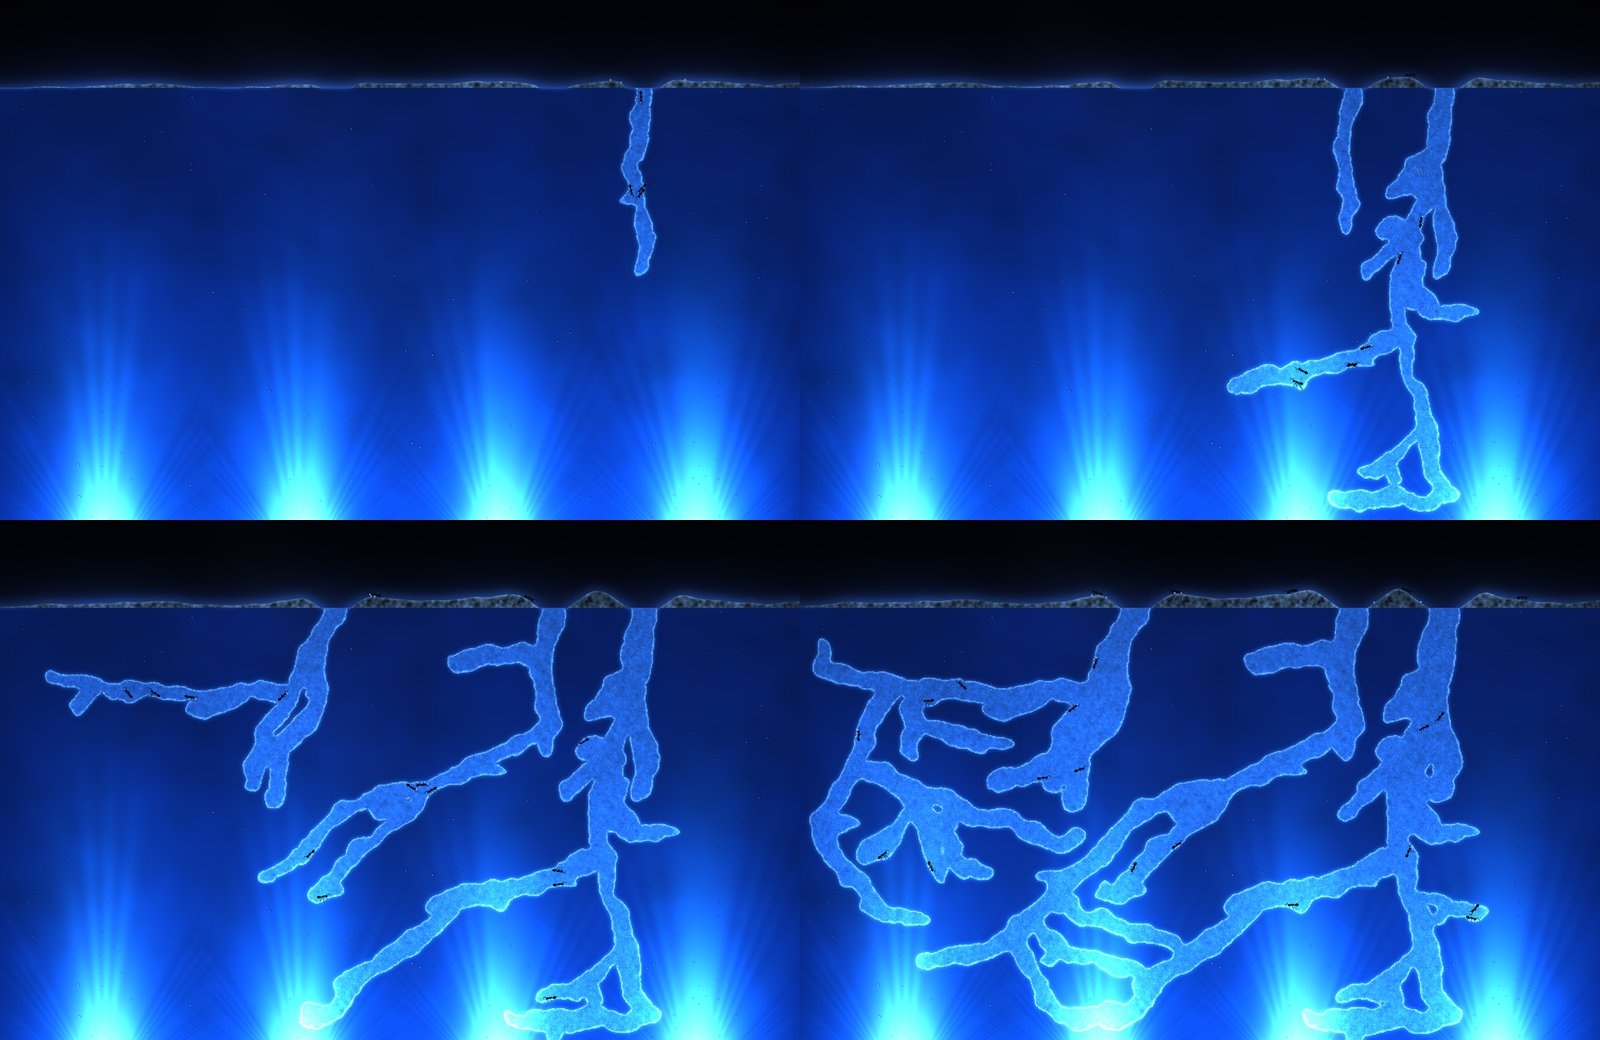
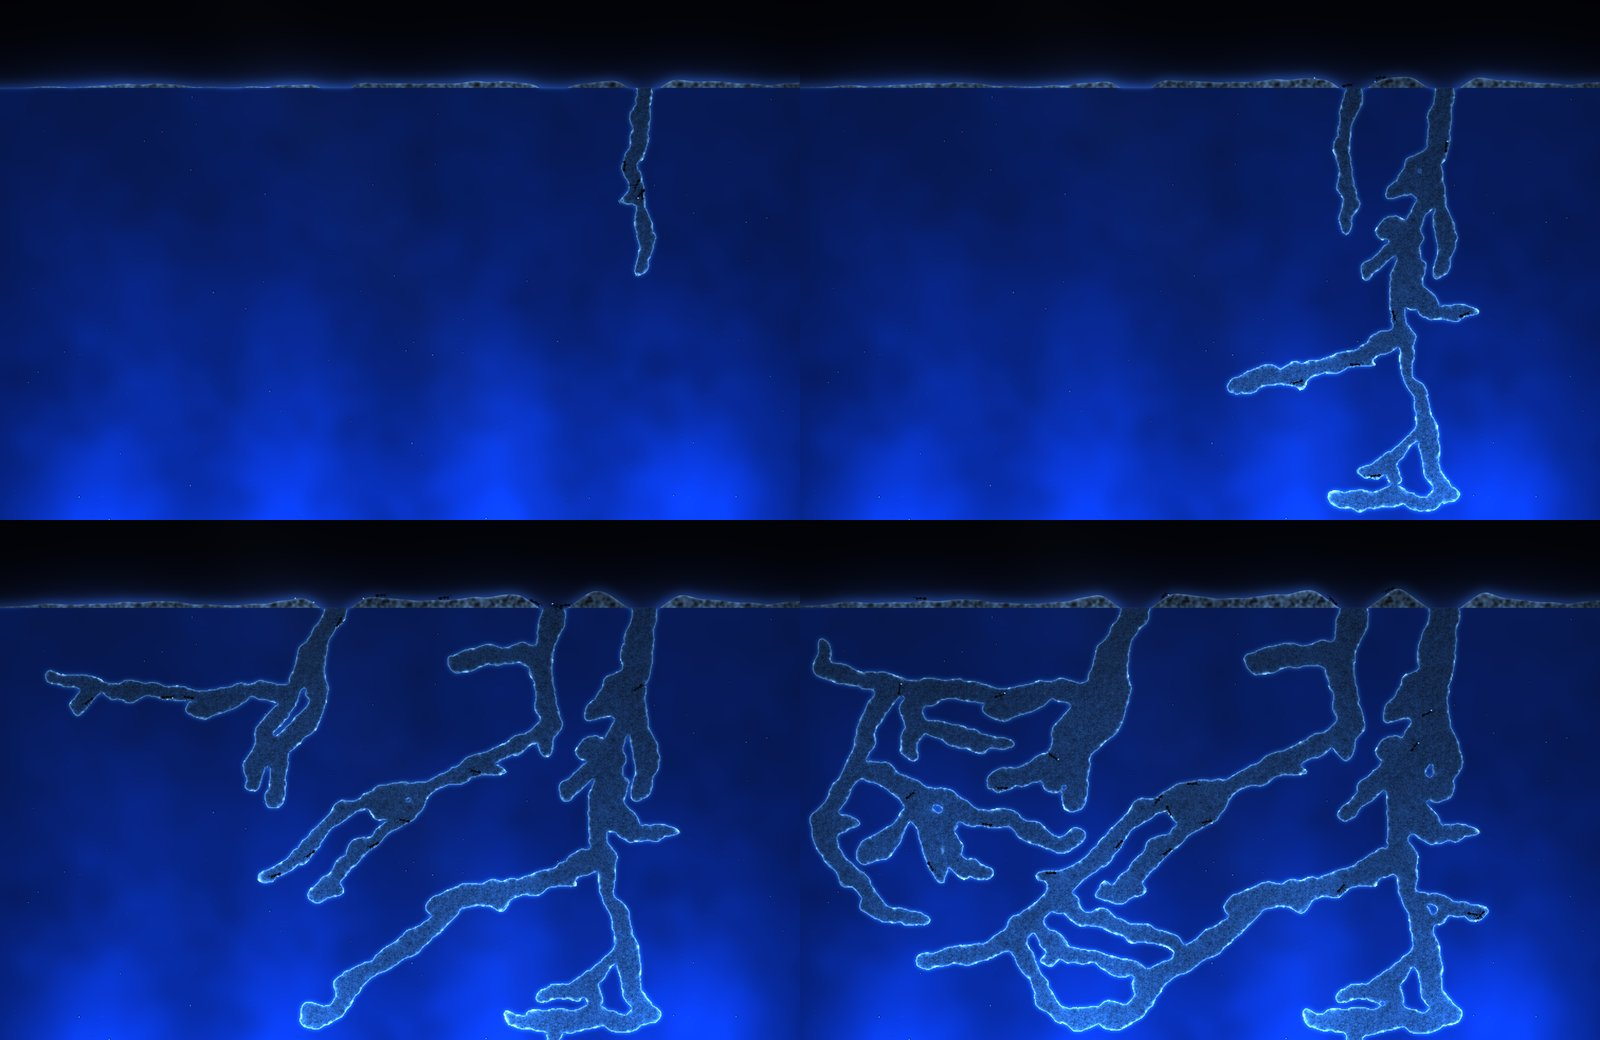
Ant Colony: bring its doc and its pictures up to what was built
The doc still had two shaders, twenty-two sprites an ant, a lattice
in the sand and a face strip from before ants were sent to the faces
about to move. Its sheets of a day and of the sizes were in the gel
that is now Bright Gel. They are drawn again in the standard look, the
strip at Speed 8 shows a digger relieved by the ant waiting behind it,
and the list of what is not checked says so plainly: the Settings
page has not been seen with five looks in its menu.

Dave's second remark on the mock-ups is in his own words but for the
toy's name, which the doc gives once.

diff --git a/docs/ant-colony.md b/docs/ant-colony.md
@@ -4,9 +4,9 @@ A thin tank seen from the side, with the display as its glass: blue gel lit from
 
 It imitates the Ant Farm, the toy sold since 1956, and the blue gel tanks that came after it. That name is a registered mark and is used nowhere in the app: see [Rights](#rights).
 
-Dave asked for it on 2026-10-12, slowly evolving and "based on realistic ant movements", and then: "think that sideways clear view into the ant colony as it slowly forms and gets bigger". It was researched and mocked up that day, he chose from the sheets ([Dave's decisions](#daves-decisions-2026-10-12)), and it was built the same day in three steps. It is flagged `unfinished`: hidden until he has tried it.
+Dave asked for it on 2026-10-12, slowly evolving and "based on realistic ant movements", and then: "think that sideways clear view into the ant colony as it slowly forms and gets bigger". It was researched and mocked up that day, he chose from the sheets ([Dave's decisions](#daves-decisions-2026-10-12)), and it was built the same day in three steps, then gone over again after the lead's review and Dave's second look at the mock-ups. It is flagged `unfinished`: hidden until he has tried it.
 
-- **Source:** `Sources/Atrium/AntColony.swift` (the scene, the two shaders and the ants' sprites), `Sources/AntNest/` (`Nest.swift`, the nest and its bake; `Colony.swift`, the ants; its own module, built with `-O`).
+- **Source:** `Sources/Atrium/AntColony.swift` (the scene, its clock, the five looks' shaders and the ants' sprites), `Sources/AntNest/` (`Nest.swift`, the nest and its bake; `Colony.swift`, the ants; its own module, built with `-O`).
 - **Data:** none. Everything is made from the date.
 - **Scripts:** `docs/ant-colony/probe.swift` measures what the ants do with nothing drawn, and `wide.swift` runs a thousand nests looking for a crash ([Checking it](#checking-it)); `avinery_curve.py` and `measure_photos.py` are the two measurements taken off other people's films and photographs.
 - **Pictures of it:** `docs/images/ant-colony.jpg` and one for each other look (`ant-colony-bright-gel.jpg`, `ant-colony-sand.jpg`, `ant-colony-white-sand.jpg`, `ant-colony-earth.jpg`); and in `docs/ant-colony/`, one farm at four moments of its day (`day.jpg`), the smallest ants beside the largest (`sizes.jpg`), one ant followed for five seconds (`one-ant.jpg`) and a face at the top of Speed (`face-at-speed-8.jpg`).
@@ -17,7 +17,7 @@ Dave asked for it on 2026-10-12, slowly evolving and "based on realistic ant mov
 |---|---|
 | Name | Ant Colony |
 | What it shows | "that sideways clear view into the ant colony as it slowly forms and gets bigger" |
-| Look | "Gel and sand both", as a setting. Then, having seen both rounds of mock-ups: "i love all of the ant farm mockups, all of what has been shown should be an option to select somehow". So every medium he was shown is a pick: the gel, sand dim and white, and earth |
+| Look | "Gel and sand both", as a setting. Then, having seen both rounds of mock-ups: "i love all of the ... mockups, all of what has been shown should be an option to select somehow". So every medium he was shown is a pick: the gel, sand dim and white, and earth |
 | Size of ant | "Middle, with a Size setting" |
 | Time | "A farm a day", by the wall's clock, with a Speed slider |
 | The toy on screen | no frame and no skyline: the display is the glass, edge to edge |
@@ -76,7 +76,7 @@ Looked at, measured for colour (`docs/ant-colony/measure_photos.py`) and compare
 
 ### The nest is baked, not dug
 
-`Nest` grows a whole nest from a seed before anything is shown (70 ms for a 14-inch display at the middle size, off the main thread). Faces go on in wandering lines pulled toward their own pitch, branch off sideways and stop; three times in four a face that meets another tunnel runs on into it, so galleries join and the medium is left in blocks; new faces open toward the largest undug stretch; rooms two to four ant lengths across swell from a niche in a tunnel's side or end. A tunnel's width wanders and its walls widen slowly behind the face. The finished map is read through a smooth push about a quarter of an ant's length deep, so no wall is a brush stroke, and anything left thinner than 0.4 of a length between two tunnels is taken away with the later one.
+`Nest` grows a whole nest from a seed before anything is shown (60 ms for a 14-inch display at the middle size, off the main thread). Faces go on in wandering lines pulled toward their own pitch, branch off sideways and stop; three times in four a face that meets another tunnel runs on into it, so galleries join and the medium is left in blocks; new faces open toward the largest undug stretch; rooms two to four ant lengths across swell from a niche in a tunnel's side or end. A tunnel's width wanders and its walls widen slowly behind the face. The finished map is read through a smooth push about a quarter of an ant's length deep, so no wall is a brush stroke, and anything left thinner than 0.4 of a length between two tunnels is taken away with the later one.
 
 What is kept is **one number for each cell: the share of all the digging done when that cell goes.** The nest at any moment is the cells whose number is at most the share dug, so the dug area grows as that share does, and how the share runs against the clock is decided afterwards. A young colony works one face and a grown one eight (`Nest.faces`), and its mouths open one after another, so the first hours are one shaft.
 
@@ -121,7 +121,7 @@ One full-screen sprite with one of five shaders, a look each, and sprites for th
 - **Bright Gel** is the same tank nearer photograph 6, and far brighter: a bloom of faint rays over each lamp, more bubbles, and tunnels that are the gel's own blue a little paler with bubbles frothing at their walls.
 - **Sand.** Grains a tenth of an ant across, scattered one to a square with no lattice to them (on a square lattice they showed as a weave wherever the picture was drawn at half size: a non-Retina display, Settings' preview, a README picture). The map is read at the middle of the grain a pixel is in, so a grain is there whole or not at all: an edge crumbles by the grain. A grain is as big as its nearest neighbour lets it be. A tunnel is a trough, its wall curving back to the pane behind, dark under its upper lip, with loose grains lying on the pane, most of them along the floors. Ants are red harvesters lit from above, their far legs darker, with a shadow on the pane. **Sand** is the mock-ups' warm sand (211,201,183, warmed) at two thirds of its brightness, with warm dark tunnels; **White Sand** is the toy's, matched to photograph 1, with the grey pane behind.
 - **Earth.** Photograph 8's fine yellow-brown soil, too fine to show a grain, in clumps, lit from the upper left, its edge pushed about half a grain deep; tunnels dark, the soil behind in the shadow of the upper lip, with crumbs left on the pane beside the walls and a little light on the floors; a dark room above. Its ants are the sand's, and are not dimmed with the soil: in the first mock-up they were, and could hardly be seen in the tunnels.
-- **An ant** is a painted body and a sprite for each length of leg and antenna (22, or 16 for the smallest ants, whose feet are too small to show a bend), with soft sides so that a leg thinner than a pixel is a faint line and not a row of dots. An ant standing still has only its antennae placed.
+- **An ant** is a painted body and a sprite for each length of leg and antenna (16, or 22 for the largest ants, the only ones whose feet are big enough to show a bend), with soft sides so that a leg thinner than a pixel is a faint line and not a row of dots. An ant standing still has only its antennae placed.
 
 ## Rights
 
@@ -156,7 +156,7 @@ From the search of 2026-10-12, by a helper who read the USPTO's records; the bui
 | 16× | 48% | 54% | 70% | 77% | 62% |
 | 24× | 43% | 54% | 65% | 77% | 60% |
 
-The worst single nest and hour was 66% at 1× and 53% at 8×. At 8 the day's first shaft goes down an ant's length in thirteen seconds (`face-at-speed-8.jpg`, 0.47 s a tile, made before ants were sent to moving faces first).
+The worst single nest and hour was 66% at 1× and 53% at 8×. At 8 the day's first shaft goes down an ant's length in thirteen seconds. `face-at-speed-8.jpg` is that, in white sand, 0.47 s a tile: one ant digs at the face with another waiting behind it; the digger takes a grain, turns about and leaves, and the other steps up.
 
 Settings' own copy, behind its page, is given three in the afternoon of the day's first farm when the real one is under three tenths dug or over nine (`HeadStart`), so its settings can be judged at any hour.
 
@@ -194,7 +194,7 @@ swiftc -O Sources/AntNest/Nest.swift Sources/AntNest/Colony.swift docs/ant-colon
 - **The other tests:** the same seed bakes the same nest and another seed another; the dug area is the share the clock says; the clock's hours; one shaft only in a farm's first twentieth. Three nests at four ages, watched every sixtieth of a second with the digging forty times too fast: no ant's middle is ever over undug medium (0 of 303,038 ant-moments; its head or gaster 111), no planted foot moves, no body goes further in a sixtieth of a second than a quarter of its length (0.069 at most), and someone is always walking. The picture is the same at 15, 30 and 60 fps, in gel and in white sand with small ants at Speed 8; the five looks differ as they should; there is more tunnel at six in the evening than at nine in the morning; Settings' copy opens on a nest part-dug; and the frame after Speed goes from 1 to 8, or back, shows exactly as much tunnel as the frame before. The cycle on its own: a fresh one at Speed 1 is the day's wall-clock farm; a change of Speed keeps the hours dug; the next farm begins as one ends above 1 and only at six at 1; a relaunch from the saved numbers is where it was; a clock set back leaves the farm whole.
 - **A nest is baked from the date every morning,** so a trap on one date is a crash at every launch that day. The test that stays bakes 36 nests (six dates on six grids: a 14-inch display's at each size of ant, a portrait display's, a 13-inch's, a 5K's), runs each at four ages and once with the clock set back under its ants, and asserts that every ant is somewhere in the tank and none has its middle in the medium (2 s). **`wide.swift`** is the same on twelve grids, up to Small ants on a 6K display (2,545 by 1,432 cells), and as many dates as asked. Its last run of 2026-10-12: 1,080 nests, 91.7 million ant-moments, no trap, 0 middles in the medium, 0 places off the tank or not a number; 966 ants moved to their place at once, 880 of them on the frame the clock went back; fewest mouths 1; every nest had a room. Its first run trapped, on an ant digging in a tunnel the set-back clock had not yet dug; that and two ways of standing in the medium for a moment after a set-back are fixed.
 - **`probe.swift`** runs ten minutes at four ages of a day, at each of four Speeds or those asked for, and prints how often a tunnel face that moved had an ant at it, where the ants' time went, how many planted feet were on the medium (and how many were not though some was in reach), and what a step costs. The figures under [Settings](#settings) and [Still open](#still-open) are its, for the nests of 2026-10-12, 13 and 15.
-- **Judge motion from strips**, not stills: `SNAPSHOT_MOVIE` saves frames at 15 fps. `one-ant.jpg` is an ant at a face, turning about and leaving with its grain.
+- **Judge motion from strips**, not stills: `SNAPSHOT_MOVIE` saves frames at 15 fps. `one-ant.jpg` (in Bright Gel, 0.2 s a tile) is an ant at a face, turning about and leaving with its grain.
 - **The pictures:** `docs/images/ant-colony.jpg` is the second line above, and `ant-colony-bright-gel.jpg` the same with `antcolony.look=1`; `ant-colony-sand.jpg` is `antcolony.day=20261015,antcolony.hour=11,antcolony.look=2`; `ant-colony-white-sand.jpg` is `antcolony.day=20261014,antcolony.hour=9,antcolony.look=3`; `ant-colony-earth.jpg` is `antcolony.day=20261012,antcolony.hour=10,antcolony.look=4`. Each is `sips -s format jpeg -s formatOptions 85 -Z 1600` of the test's PNG, and `Resources/preview-ant-colony.jpg` is the first at 1200 wide. The day was picked from four.
 
 ## Shortcuts
@@ -219,11 +219,11 @@ Worst first, as the builder saw it on stills and strips; Dave has not seen it ru
 5. **It is busier than real ants:** two fifths to three fifths of the colony are walking at once, where real workers are idle 60% of the time. Dave's rule is lively over realistic, but this has not been judged running.
 6. **Crossing to the other wall** happens at many junctions and may read as a twitch.
 7. **Now and then an ant is moved to its place at once** (none or one in ten minutes of 22 ants; 86 times in the wide run's 1,080 nests, besides the frame the clock was set back), where neither the straight way nor the way by the middle of the tunnel was open.
-8. **Tunnel edges are scalloped at the size of a cell** (4 pixels) close up, and large sand grains show their lattice when a picture is reduced.
+8. **Tunnel edges are scalloped at the size of a cell** in the gels and in earth: 4 pixels at Medium, which takes a close look, and 6.5 at Large, where every wall has small regular bumps under its bright rim. In sand the grains hide it.
 9. **Tunnels are 1.3 to 1.5 ant lengths wide** once their walls have widened, against the measured one, so ants look small in them.
 10. **Digging is a nod of the head,** and a grain appears in the jaws.
 11. **The lit ant is drawn, not photographed,** and is lit from its own back, so its highlight turns with it. In earth it is small and bright against a dark tunnel, and has been judged on stills only.
-12. Not checked: the Settings page itself (its test opens a window on the screen), a 5K or 6K display, a 1x display, a second display, a slower Mac, the lock screen's still.
+12. Not checked: the Settings page itself (its test opens a window on the screen), so the five looks have not been seen in its menu nor the head start behind its page; the picture on a 5K or 6K display (only its cost, off screen); a 1x display, a second display, a slower Mac, a release build, the lock screen's still.
 13. **Some people do not want insects on their screen,** and small dark things moving at the edge of vision can read as a real one on the glass. Whether it should be left out of Shuffle's list until picked is Dave's to say.
 
 ## Next ideas

diff --git a/docs/README.md b/docs/README.md
@@ -73,7 +73,7 @@ Add or refresh one whenever a wallpaper's look changes. Settings shows one of th
 - **Unfinished, hidden for 1.0** (2026-09-30): A Tree for the Year and Campfire aren't hitting the mark yet, so they're flagged `unfinished` (see their docs to revisit). Merging Game of Life and Turing Patterns into one wallpaper is on hold while Dave thinks it over; the case against was that they share no engine and few settings.
 - **Three new ones** (2026-10-10 to 12): from a brainstorm ([ideas.md](ideas.md)) he picked Black Hole, Meander and a train window for Pixel Window Seat. Each was researched and mocked up for him to choose from, then built in steps behind the `unfinished` switch while he tested them. On 2026-10-12 he asked for their README and site pictures and, asked which to unhide, said all three: they're in the app for everyone from 0.109.0.
 - **Etching** (2026-10-12): he asked for a wallpaper after the two-dial drawing toy, "where intricate public domain images become slowly drawn out over time starting from fresh", and for research and mock-ups first. Having seen them he chose the unbroken line with shading over a line that lifts, "Screen alone now, frame later", the line's width "Both, as a setting", a Speed slider "in case a user wants to see it go faster", and ruled "nothing religious" for the pictures (classical myth is fine). He put it ahead of the peg board: "the etch one is looking really really good". It was built that day behind the `unfinished` switch, and he named it Etching, for the old prints it draws ([etching.md](etching.md)).
-- **Ant Colony** (2026-10-12): he asked for a slowly evolving colony "based on realistic ant movements", following "same pattern we are for etch and light grid, research team, then mockups, then build", and then: "think that sideways clear view into the ant colony as it slowly forms and gets bigger". From the mock-ups he chose "Gel and sand both", the middle size of ant "with a Size setting", "A farm a day" with a Speed slider, and the name; and then "Build now, refine as it goes". It was built that day behind the `unfinished` switch ([ant-colony.md](ant-colony.md)).
+- **Ant Colony** (2026-10-12): he asked for a slowly evolving colony "based on realistic ant movements", following "same pattern we are for etch and light grid, research team, then mockups, then build", and then: "think that sideways clear view into the ant colony as it slowly forms and gets bigger". From the mock-ups he chose "Gel and sand both", the middle size of ant "with a Size setting", "A farm a day" with a Speed slider, and the name; and then "Build now, refine as it goes". Having seen both rounds: "i love all of the ... mockups, all of what has been shown should be an option to select somehow", so earth came back and every look is a pick. It was built that day behind the `unfinished` switch ([ant-colony.md](ant-colony.md)).
 - **Small updates** (2026-10-10): "my goal is to prevent users from having to re download the whole thing over and over as i add more wallpapers." He asked about publishing a delta with each release; after research and tests he chose the design that needs no chain of deltas. An update now fetches only the files that changed, a few MB instead of 400 ([updates.md](updates.md)).
 - **Workflow:** commit early and often; redeploy after each working change and tell him what to test.
 - **Cut:** Zen Garden, on 2026-09-25: "so bright and sharp and not relaxing, opposite of zen." Calm means soft and dim as well as slow. Its code and doc were deleted; they're in git history before the cut.
